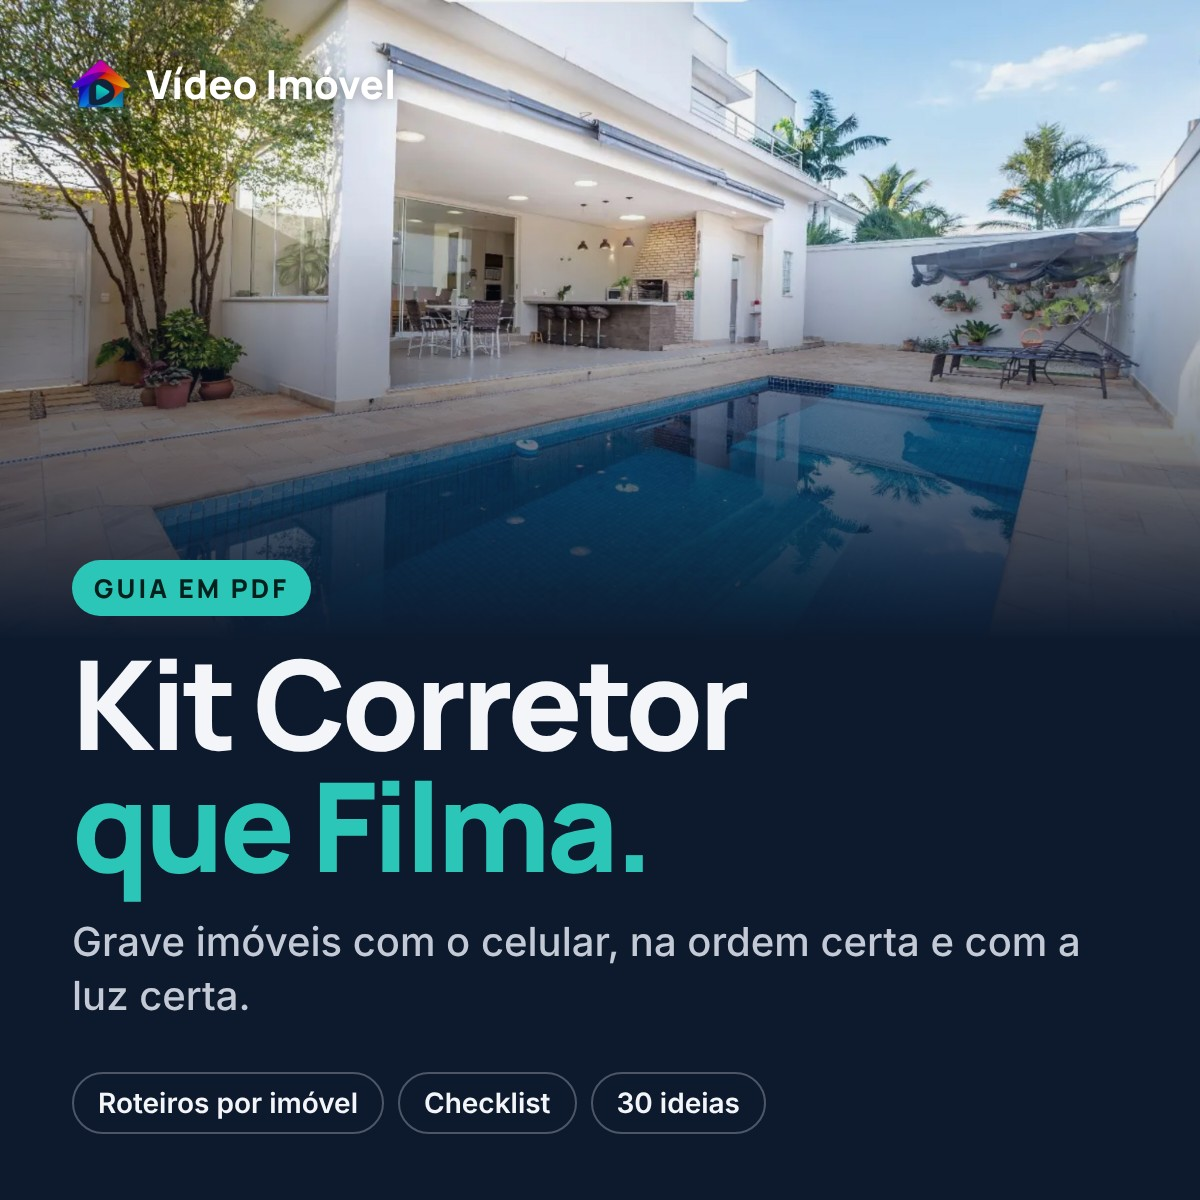
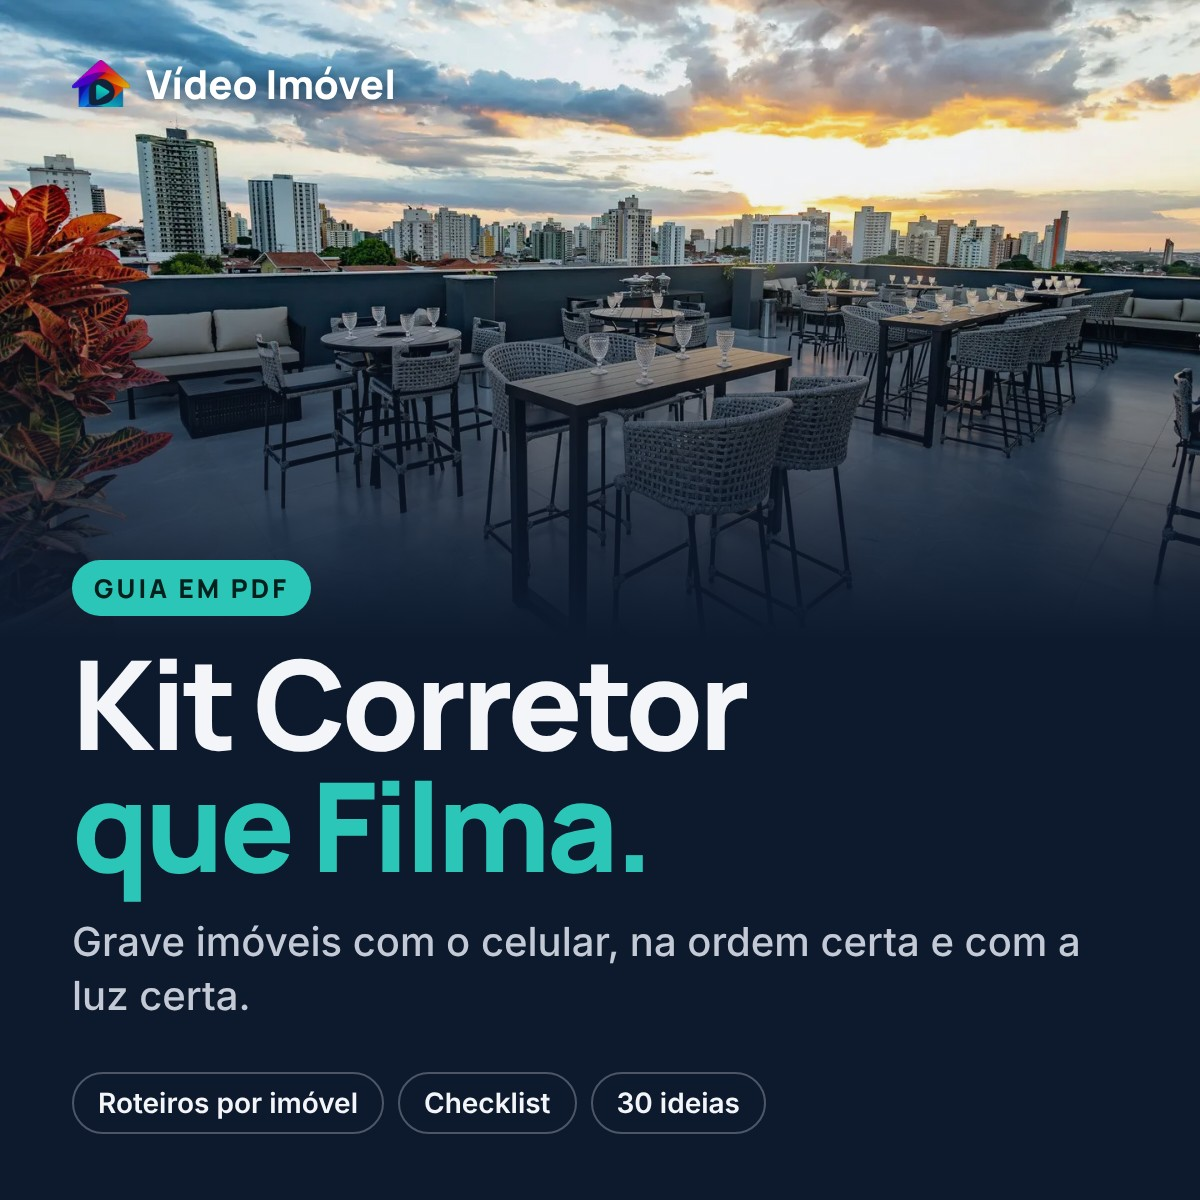
Kit: capa quadrada com foto do rooftop
Claude-Session: https://claude.ai/code/session_01BSDKUva1iMyEordVMV2vmb

diff --git a/kit/capa.html b/kit/capa.html
@@ -3,7 +3,7 @@
 <style>
 body{margin:0}
 .c{width:1200px;height:1200px;background:#0d1a2e;position:relative;overflow:hidden;font-family:Inter}
-.img{position:absolute;inset:0 0 auto 0;height:640px;background:url(cover.jpg) center 60%/cover}
+.img{position:absolute;inset:0 0 auto 0;height:640px;background:url(banner_bg.jpg) center 40%/cover}
 .img::after{content:"";position:absolute;inset:0;background:linear-gradient(180deg,rgba(13,26,46,.05) 35%,#0d1a2e 100%)}
 .brand{position:absolute;top:56px;left:72px;display:flex;align-items:center;gap:16px;color:#fff;font:800 40px Manrope;z-index:2;text-shadow:0 2px 12px rgba(0,0,0,.35)}
 .brand img{width:58px}
